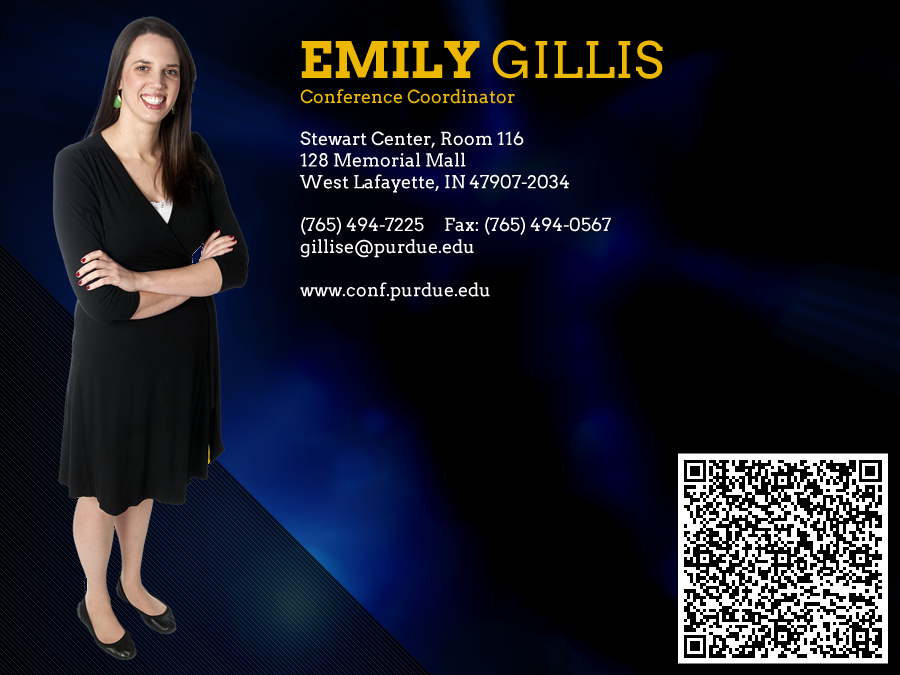
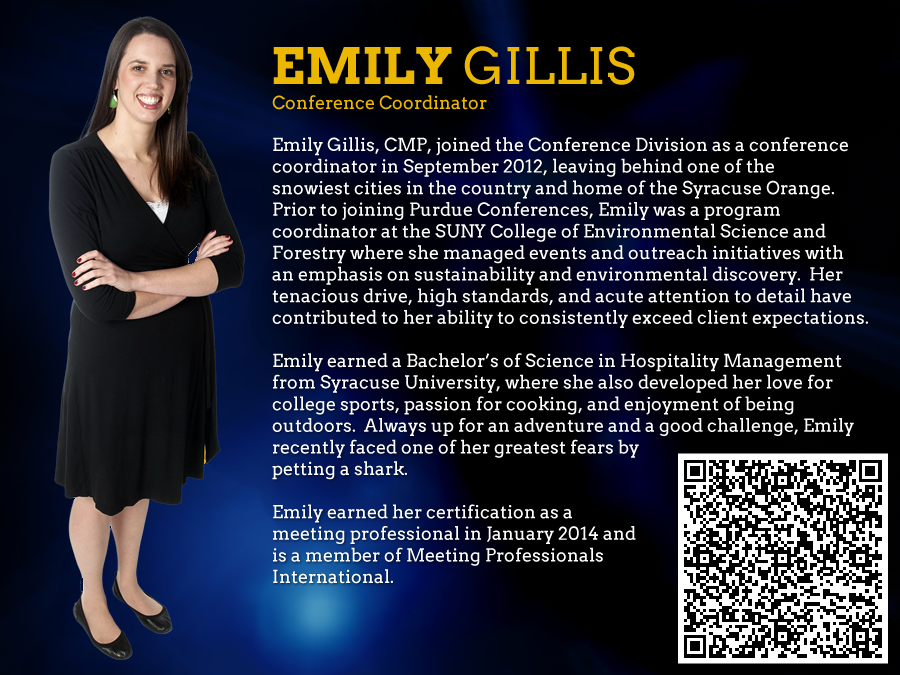
Changes made by Noel Robinos (robinosn@gmail.com).
Added:
Purdue University Airport - Images and Point in Campus Map
Emily Gillis - Bio
Add "CMP" for Kathy and LaTayna

diff --git a/Purdue Conference Highlights/index.html b/Purdue Conference Highlights/index.html
@@ -43,7 +43,7 @@
         <!--Timeout-->
      <script type="text/javascript">
           window.onload = function () {
-              setTimeout("initialize()", 3000);
+              setTimeout("initialize()", 4000);
           }
          
             function setplane() { 
@@ -1088,7 +1088,7 @@
 					<p style="padding-bottom:1em;">Whether you are looking to bring a group of 5 or a group of 5,000, you can put your confidence in Purdue Conference Division's 20 coordinators, registration assistants, and clerical assistants, who are supported by over 20 business and IT staff members. We currently have 2 Certified Meeting Planners, with 2 more working toward certification. We have the expertise to assist you with everything from online registration and abstract management to technology and business needs.</p>
                     -->
                     
-                    <p style="padding-bottom:1em;">Purdue Conferences' goal is to ensure that your conference, symposium, or event is a success. At Purdue we have meeting space for you whether your group is 10 people or 6,000. Not in the Midwest? Not a problem, we&rsquo;ll bring Purdue to you. We want to plan  any program you hold, anywhere you hold it. We have conducted conferences throughout the United States including New York, Las Vegas, Washington D.C., Sacramento, and internationally. Why deal with dozens of suppliers and  vendors when a Purdue Conferences coordinator can put the whole package  together for you? Purdue Conferences will take care of all the details for your conferences from site selection, speaker engagement, to every  logistical detail of your event. Let us focus on the  logistics so you can enjoy the success of your program.</p>
+                    <p style="padding-bottom:1em;">Purdue Conferences' goal is to ensure that your conference, symposium, or event is a success. At Purdue we have meeting space for you whether your group is 6 people or 6,000. Not in the Midwest? Not a problem, we&rsquo;ll bring Purdue to you. We want to plan  any program you hold, anywhere you hold it. We have conducted conferences throughout the United States including New York, Las Vegas, Washington D.C., Sacramento, and internationally. Why deal with dozens of suppliers and  vendors when a Purdue Conferences coordinator can put the whole package  together for you? Purdue Conferences will take care of all the details for your conferences from site selection, speaker engagement, to every  logistical detail of your event. Let us focus on the  logistics so you can enjoy the success of your program.</p>
                     <p style="padding-bottom:1em; font-weight:bold;">The Purdue Complete Meeting Service Package:</p>
                     <ul>
                         <li>Registration</li>
@@ -1146,7 +1146,18 @@
 							<img class="popphoto1" src="images/staff/popup_nick.png" alt="Nick Bonora">
 						</div>                       
 					</div>
+                    
 					<div class="ui-block-b">
+ 						<a href="#popupPhoto2" data-rel="popup" data-transition="flip">
+							<img src="images/staff/tile_kevin.png" width="99%" >
+						</a>
+						<div data-role="popup" id="popupPhoto2" data-overlay-theme="a" data-theme="d" data-corners="false" data-position-to="window">
+							<a href="#" data-rel="back" data-role="button" data-theme="a" data-icon="delete" data-iconpos="notext" class="ui-btn-right">Close</a>
+							<img class="popphoto1" src="images/staff/popup_kevin.png" alt="Kevin Ness">
+						</div>                       
+					</div>
+                    
+					<div class="ui-block-c">
  						<a href="#popupPhoto3" data-rel="popup"  data-transition="flip">
 							<img src="images/staff/tile_stephanie.png" width="99%" >
 						</a>
@@ -1155,93 +1166,85 @@
 							<img class="popphoto3" src="images/staff/popup_stephanie.png" alt="Stephanie Botkin">
 						</div>                       
 					</div>
-					<div class="ui-block-c">
-						<a href="#popupPhoto" data-rel="popup" data-transition="flip">
+					<div class="ui-block-a">
+						<a href="#popupPhoto4" data-rel="popup" data-transition="flip">
 							<img src="images/staff/tile_emma.png" width="99%">
 						</a>
-						<div data-role="popup" id="popupPhoto" data-overlay-theme="a" data-theme="d" data-corners="false" data-position-to="window">
+						<div data-role="popup" id="popupPhoto4" data-overlay-theme="a" data-theme="d" data-corners="false" data-position-to="window">
 							<a href="#" data-rel="back" data-role="button" data-theme="a" data-icon="delete" data-iconpos="notext" class="ui-btn-right">Close</a>
 							<img class="popphoto" src="images/staff/popup_emma.png" alt="Emma Ferrell">
 						</div>
 					</div>
 
-					<div class="ui-block-a">
-						<a href="#popupPhoto4" data-rel="popup" data-transition="flip">
+					<div class="ui-block-b">
+						<a href="#popupPhoto5" data-rel="popup" data-transition="flip">
 							<img src="images/staff/tile_emily.png" width="99%">
 						</a>
-						<div data-role="popup" id="popupPhoto4" data-overlay-theme="a" data-theme="d" data-corners="false" data-position-to="window">
+						<div data-role="popup" id="popupPhoto5" data-overlay-theme="a" data-theme="d" data-corners="false" data-position-to="window">
 							<a href="#" data-rel="back" data-role="button" data-theme="a" data-icon="delete" data-iconpos="notext" class="ui-btn-right">Close</a>
 							<img class="popphoto" src="images/staff/popup_emily.png" alt="Emily Gillis">
 						</div>
 					</div>
-					<div class="ui-block-b">
-						<a href="#popupPhoto10" data-rel="popup" data-transition="flip">
+					<div class="ui-block-c">
+						<a href="#popupPhoto6" data-rel="popup" data-transition="flip">
 							<img src="images/staff/tile_latayna.png" width="99%">
 						</a>
-						<div data-role="popup" id="popupPhoto10" data-overlay-theme="a" data-theme="d" data-corners="false" data-position-to="window">
+						<div data-role="popup" id="popupPhoto6" data-overlay-theme="a" data-theme="d" data-corners="false" data-position-to="window">
 							<a href="#" data-rel="back" data-role="button" data-theme="a" data-icon="delete" data-iconpos="notext" class="ui-btn-right">Close</a>
 							<img class="popphoto" src="images/staff/popup_latayna.png" alt="LaTayna Greene">
 						</div>
 					</div>
-					<div class="ui-block-c">
-						<a href="#popupPhoto6" data-rel="popup"  data-transition="flip">
+					<div class="ui-block-a">
+						<a href="#popupPhoto7" data-rel="popup"  data-transition="flip">
 							<img src="images/staff/tile_tom.png" width="99%" >
 						</a>
-						<div data-role="popup" id="popupPhoto6" data-overlay-theme="a" data-theme="d" data-corners="false" data-position-to="window">
+						<div data-role="popup" id="popupPhoto7" data-overlay-theme="a" data-theme="d" data-corners="false" data-position-to="window">
 							<a href="#" data-rel="back" data-role="button" data-theme="a" data-icon="delete" data-iconpos="notext" class="ui-btn-right">Close</a>
 							<img class="popphoto3" src="images/staff/popup_tom.png" alt="Tom Robertson">
 						</div>
 					</div>
 
-					<div class="ui-block-a">
-						<a href="#popupPhoto7" data-rel="popup" data-transition="flip">
+					<div class="ui-block-b">
+						<a href="#popupPhoto8" data-rel="popup" data-transition="flip">
 							<img src="images/staff/tile_beth.png" width="99%">
 						</a>
-						<div data-role="popup" id="popupPhoto7" data-overlay-theme="a" data-theme="d" data-corners="false" data-position-to="window">
+						<div data-role="popup" id="popupPhoto8" data-overlay-theme="a" data-theme="d" data-corners="false" data-position-to="window">
 							<a href="#" data-rel="back" data-role="button" data-theme="a" data-icon="delete" data-iconpos="notext" class="ui-btn-right">Close</a>
 							<img class="popphoto" src="images/staff/popup_beth.png" alt="Beth Scharf">
 						</div>
 					</div>
                     
-					<div class="ui-block-b">
-						<a href="#popupPhoto8" data-rel="popup" data-transition="flip">
+					<div class="ui-block-c">
+						<a href="#popupPhoto9" data-rel="popup" data-transition="flip">
 							<img src="images/staff/tile_pamela.png" width="99%" >
 						</a>
-						<div data-role="popup" id="popupPhoto8" data-overlay-theme="a" data-theme="d" data-corners="false" data-position-to="window">
+						<div data-role="popup" id="popupPhoto9" data-overlay-theme="a" data-theme="d" data-corners="false" data-position-to="window">
 							<a href="#" data-rel="back" data-role="button" data-theme="a" data-icon="delete" data-iconpos="notext" class="ui-btn-right">Close</a>
 							<img class="popphoto1" src="images/staff/popup_pamela.png" alt="Pamela Walker-Stokes">
 						</div>
 					</div>
                     
-					<div class="ui-block-b">
-						<a href="#popupPhoto9" data-rel="popup" data-transition="flip">
+					<div class="ui-block-a">
+						<a href="#popupPhoto10" data-rel="popup" data-transition="flip">
 							<img src="images/staff/tile_kathy.png" width="99%" >
 						</a>
-						<div data-role="popup" id="popupPhoto9" data-overlay-theme="a" data-theme="d" data-corners="false" data-position-to="window">
+						<div data-role="popup" id="popupPhoto10" data-overlay-theme="a" data-theme="d" data-corners="false" data-position-to="window">
 							<a href="#" data-rel="back" data-role="button" data-theme="a" data-icon="delete" data-iconpos="notext" class="ui-btn-right">Close</a>
 							<img class="popphoto1" src="images/staff/popup_kathy.png" alt="Kathy Walters">
 						</div>
 					</div>
-					<div class="ui-block-c">
-						<a href="#popupPhoto10" data-rel="popup"  data-transition="flip">
+                    
+					<div class="ui-block-b">
+						<a href="#popupPhoto11" data-rel="popup"  data-transition="flip">
 							<img src="images/staff/tile_erica.png" width="99%" >
 						</a>
-						<div data-role="popup" id="popupPhoto10" data-overlay-theme="a" data-theme="d" data-corners="false" data-position-to="window">
+						<div data-role="popup" id="popupPhoto11" data-overlay-theme="a" data-theme="d" data-corners="false" data-position-to="window">
 							<a href="#" data-rel="back" data-role="button" data-theme="a" data-icon="delete" data-iconpos="notext" class="ui-btn-right">Close</a>
 							<img class="popphoto3" src="images/staff/popup_erica.png" alt="Erica Wilson">
 						</div>
 					</div>
-
-					<div class="ui-block-b">
- 						<a href="#popupPhoto11" data-rel="popup" data-transition="flip">
-							<img src="images/staff/tile_kevin.png" width="99%" >
-						</a>
-						<div data-role="popup" id="popupPhoto11" data-overlay-theme="a" data-theme="d" data-corners="false" data-position-to="window">
-							<a href="#" data-rel="back" data-role="button" data-theme="a" data-icon="delete" data-iconpos="notext" class="ui-btn-right">Close</a>
-							<img class="popphoto1" src="images/staff/popup_kevin.png" alt="Kevin Ness">
-						</div>                       
-					</div>
-					<div class="ui-block-b">
+                    
+					<div class="ui-block-c">
 						<a href="#popupPhoto12" data-rel="popup" data-transition="flip">
 							<img src="images/staff/tile_RegistrationAssistants.png" width="99%" >
 						</a>
